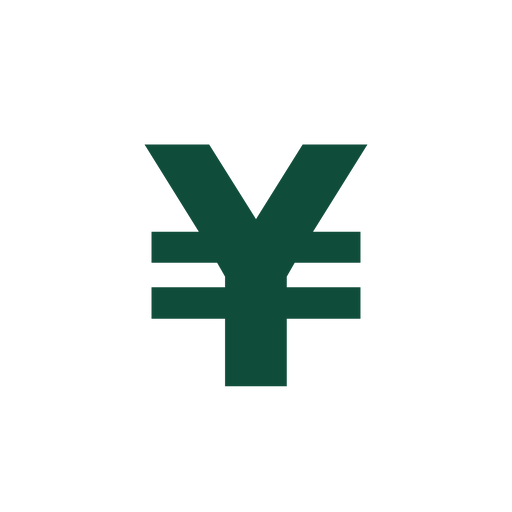
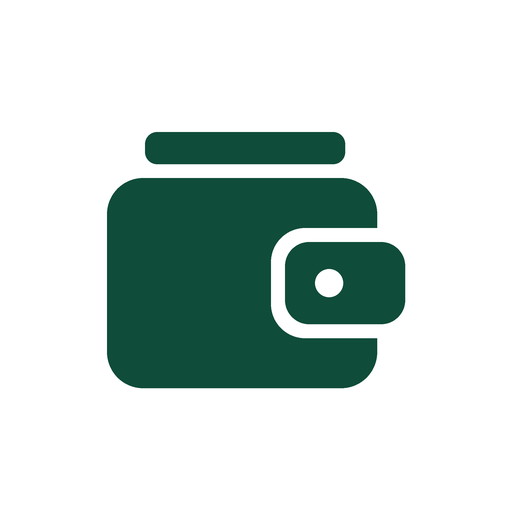
アイコンを¥マークから財布マークに変更
Service Workerのキャッシュバージョンをv3に更新。

Claude-Session: https://claude.ai/code/session_01S7hwfaiq1o2unBMiyiZ3D1

Changed region(s): [[0.1875, 0.25, 0.8125, 0.7812]]

diff --git a/sw.js b/sw.js
@@ -1,6 +1,6 @@
 // MoneyLogService Worker
 // アプリを更新したら CACHE_VERSION の数字を上げると、確実に新しいキャッシュへ切り替わります。
-const CACHE_VERSION = 'v2';
+const CACHE_VERSION = 'v3';
 const CACHE_NAME = `moneylog-${CACHE_VERSION}`;
 const PRECACHE = [
   './',
